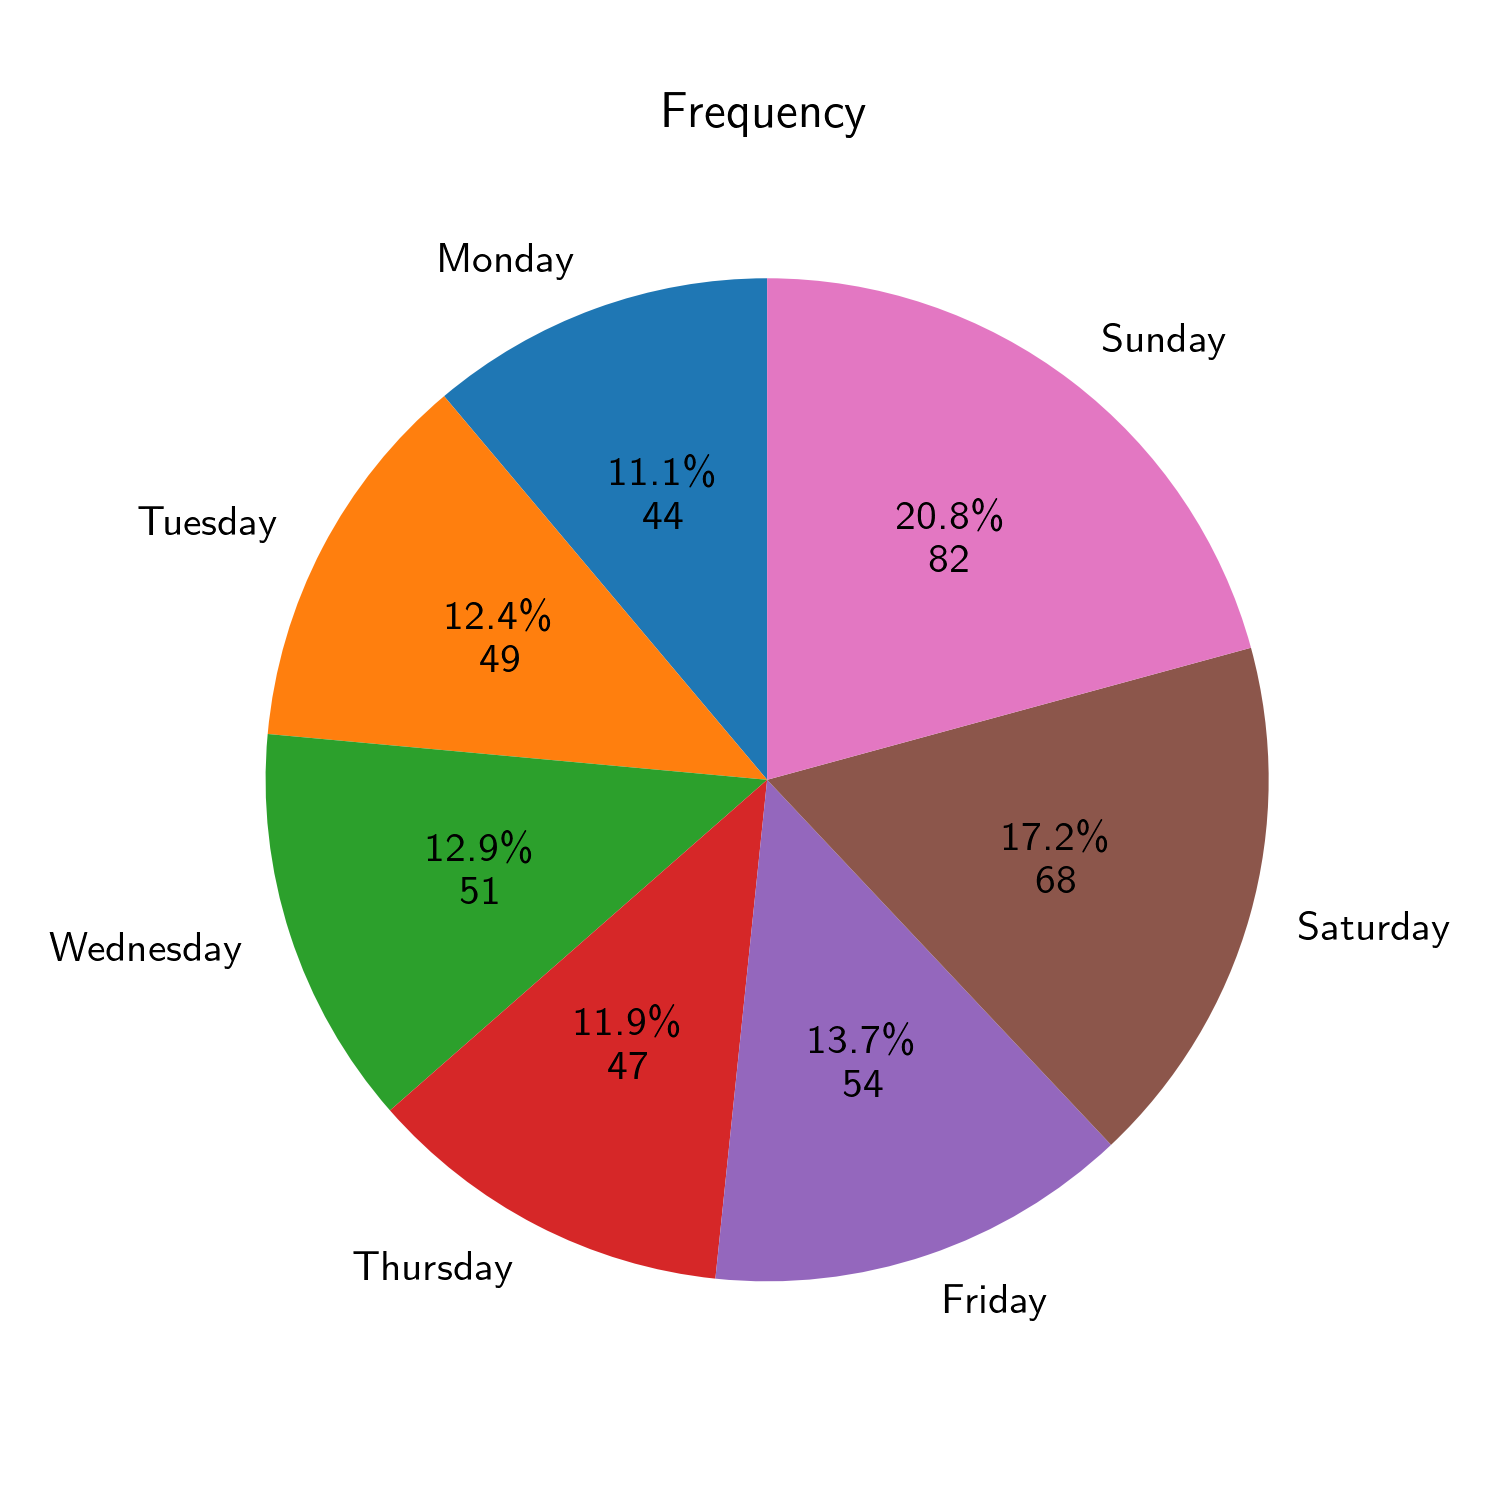
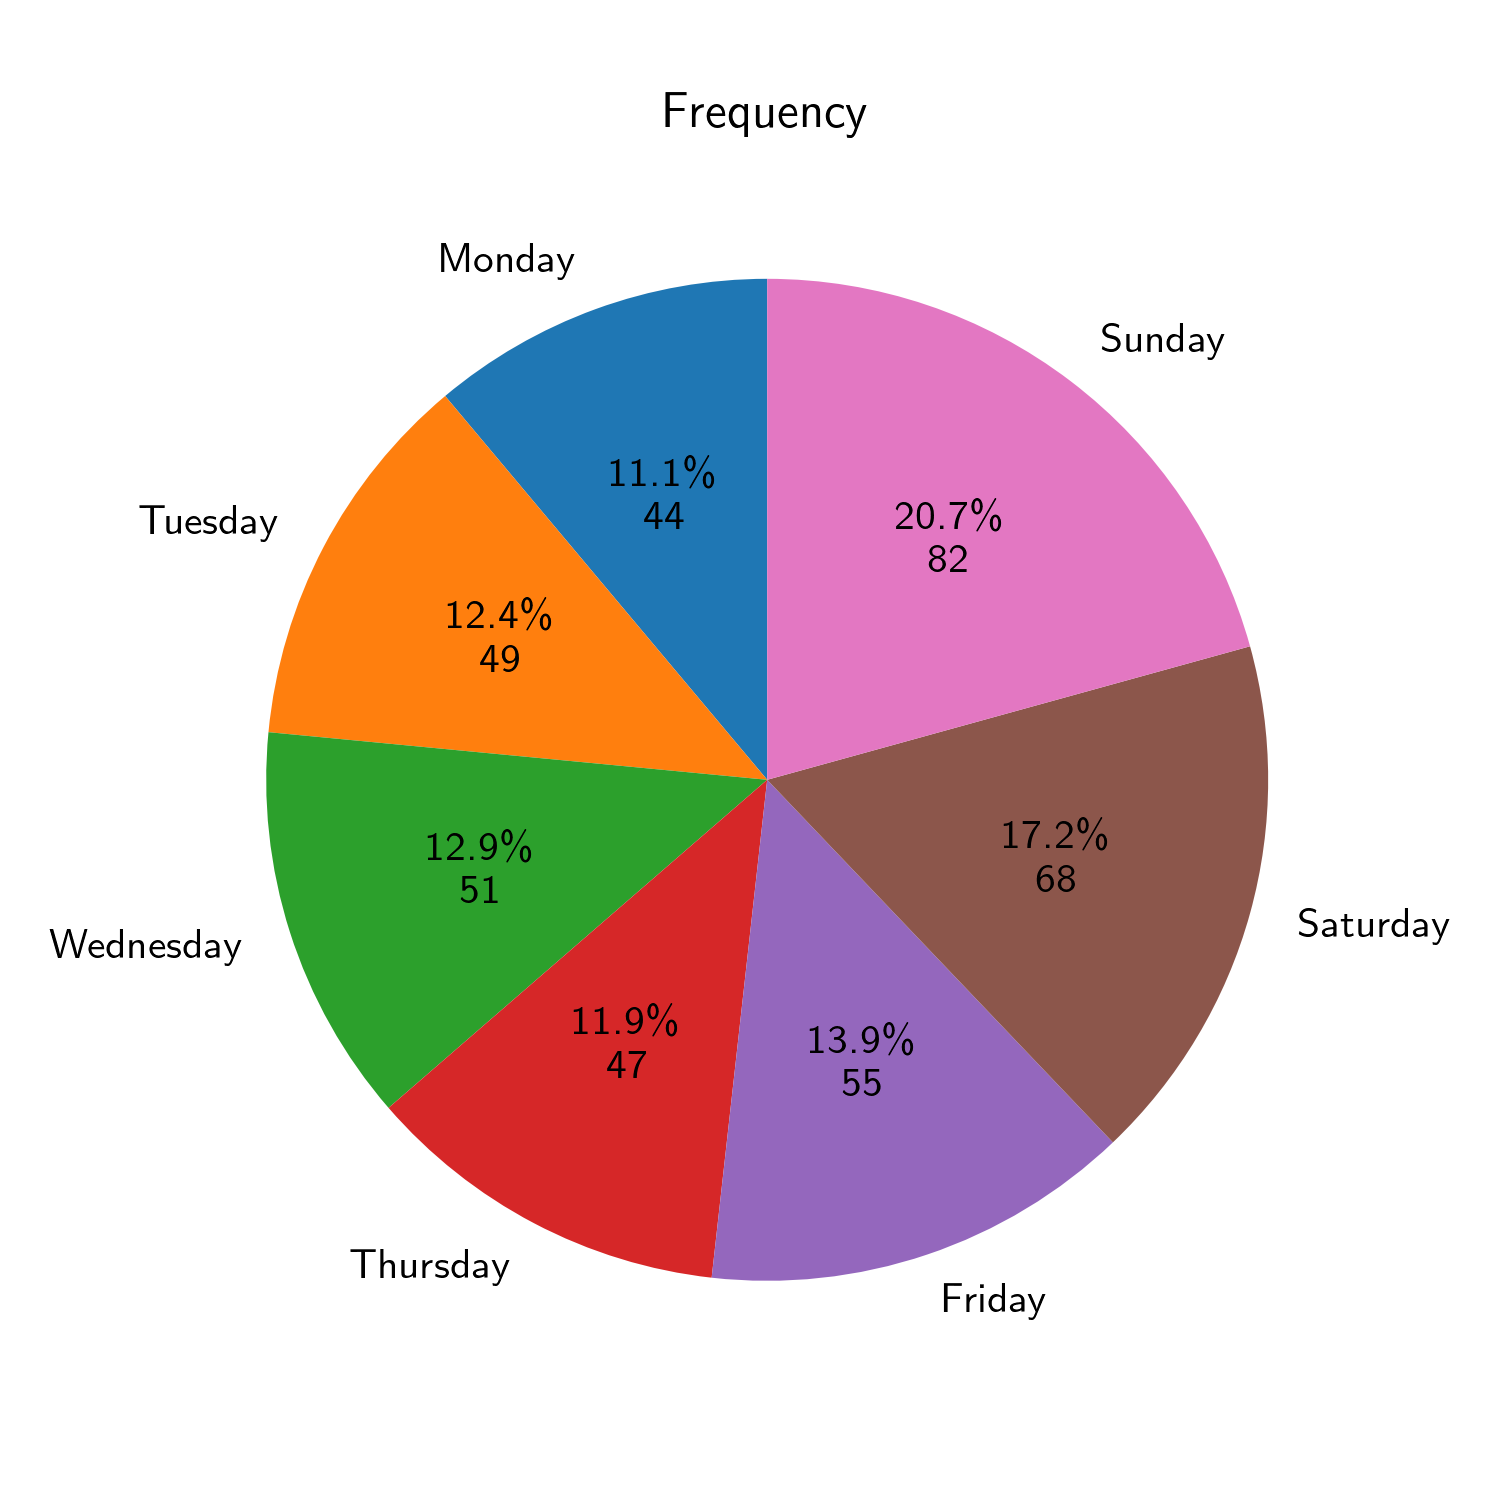
update data

diff --git a/README.md b/README.md
@@ -1,13 +1,13 @@
-last update: 03.10.2024, Thursday, time: 18:12  
+last update: 04.10.2024, Friday, time: 18:37  
 # Overview  
 || Whole | Half |  
 |---|---|---|  
-|Total $/ \textup{€}$|190.888 $\pm$ 54.560|109.011 $\pm$ 31.199|  
-|Ratio $/ \frac{\textup{€}}{\textup{h}}$| 4.516 $\pm$  0.796| 5.132 $\pm$  1.110|  
-|Cash $/ \textup{€}$|64.085 $\pm$ 35.464|43.881 $\pm$ 20.917|  
-|Cash $/ \\% $|41.500 $\pm$  8.452|44.103 $\pm$  9.766|  
-|Card $/ \textup{€}$|91.762 $\pm$ 52.018|56.598 $\pm$ 28.195|  
-|Card $/ \\% $|58.500 $\pm$  8.452|55.897 $\pm$  9.766|  
+|Total $/ \textup{€}$|191.041 $\pm$ 54.480|109.011 $\pm$ 31.199|  
+|Ratio $/ \frac{\textup{€}}{\textup{h}}$| 4.515 $\pm$  0.795| 5.132 $\pm$  1.110|  
+|Cash $/ \textup{€}$|64.184 $\pm$ 35.412|43.881 $\pm$ 20.917|  
+|Cash $/ \\% $|41.483 $\pm$  8.432|44.103 $\pm$  9.766|  
+|Card $/ \textup{€}$|91.976 $\pm$ 51.993|56.598 $\pm$ 28.195|  
+|Card $/ \\% $|58.517 $\pm$  8.432|55.897 $\pm$  9.766|  
 # Frequency  
     
 ![Image](./png/frequency.png)  
@@ -57,8 +57,8 @@ last update: 03.10.2024, Thursday, time: 18:12
 ||Ratio $/ \frac{\textup{€}}{\textup{h}}$|  4.53 $\pm$  0.76|  5.10 $\pm$  1.05|  
 |Thursday|Total $/ \textup{€}$|153.83 $\pm$ 44.89| 88.34 $\pm$ 18.21|  
 ||Ratio $/ \frac{\textup{€}}{\textup{h}}$|  4.12 $\pm$  0.66|  4.77 $\pm$  0.96|  
-|Friday|Total $/ \textup{€}$|191.53 $\pm$ 34.00|104.48 $\pm$ 25.23|  
-||Ratio $/ \frac{\textup{€}}{\textup{h}}$|  4.37 $\pm$  0.73|  4.96 $\pm$  1.14|  
+|Friday|Total $/ \textup{€}$|192.61 $\pm$ 33.93|104.48 $\pm$ 25.23|  
+||Ratio $/ \frac{\textup{€}}{\textup{h}}$|  4.36 $\pm$  0.72|  4.96 $\pm$  1.14|  
 |Saturday|Total $/ \textup{€}$|219.83 $\pm$ 42.00|116.06 $\pm$ 31.65|  
 ||Ratio $/ \frac{\textup{€}}{\textup{h}}$|  4.58 $\pm$  0.66|  4.94 $\pm$  1.08|  
 |Sunday|Total $/ \textup{€}$|253.18 $\pm$ 45.71|138.03 $\pm$ 28.18|  
@@ -68,12 +68,12 @@ Special: Holidays and Weekends
 ## Whole day  
 ||Total $/ \textup{€}$|Ratio $/ \frac{\textup{€}}{\textup{h}}$|Count|  
 |---|---|---|---|  
-|All|190.89 $\pm$ 54.56|  4.52 $\pm$  0.80|216  
-|Normal|165.02 $\pm$ 39.01|  4.31 $\pm$  0.76|139  
+|All|191.04 $\pm$ 54.48|  4.51 $\pm$  0.79|217  
+|Normal|165.44 $\pm$ 39.19|  4.31 $\pm$  0.76|140  
 |Weekend|237.59 $\pm$ 47.05|  4.89 $\pm$  0.72|77  
 |Holiday|183.40 $\pm$ 54.54|  4.43 $\pm$  0.82|63  
 |Special|210.62 $\pm$ 58.54|  4.66 $\pm$  0.80|121  
-|Special \& friday|208.26 $\pm$ 55.51|  4.63 $\pm$  0.80|143  
+|Special \& friday|208.37 $\pm$ 55.33|  4.62 $\pm$  0.79|144  
     
 ![Image](./png/special_whole.png)  
 ## Half day  
